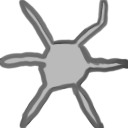
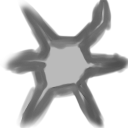
림프절 추가
몹스폰패턴의 고정위치npc임

Changed region(s): [[0.0, 0.0, 1.0, 1.0], [0.6562, 0.5312, 0.6875, 0.5625]]

diff --git a/lymph_node.py b/lymph_node.py
@@ -1,0 +1,231 @@
+import game_framework
+from pico2d import *
+import math
+import random
+
+import game_world
+from bullet import Bullet
+
+# Boy Run Speed
+PIXEL_PER_METER = (10.0 / 0.3)
+RUN_SPEED_KMPH = 20.0 #km.hour
+RUN_SPEED_MPM = (RUN_SPEED_KMPH * 1000.0 / 60.0)
+RUN_SPEED_MPS = (RUN_SPEED_MPM / 60.0)
+RUN_SPEED_PPS = (RUN_SPEED_MPS * PIXEL_PER_METER)
+
+# Boy Action Speed
+# fill expressions correctly
+TIME_PER_ACTION = 0.5
+ACTION_PER_TIME = 1.0 / TIME_PER_ACTION
+FRAMES_PER_ACTION = 8
+
+
+
+# Boy Event
+SLEEP_TIMER = range(1)
+
+key_event_table = {
+
+}
+
+
+# Boy States
+
+class IdleState:
+
+    @staticmethod
+    def enter(enemy, event):
+        pass
+
+    @staticmethod
+    def exit(enemy, event):
+        pass
+
+    @staticmethod
+    def do(enemy):
+        enemy.frame = (enemy.frame + FRAMES_PER_ACTION * ACTION_PER_TIME * game_framework.frame_time) % 8
+        enemy.timer += game_framework.frame_time
+        if enemy.timer > 9.6:
+            enemy.add_event(SLEEP_TIMER)
+
+    @staticmethod
+    def draw(enemy):
+        enemy.image.rotate_draw(enemy.angle, enemy.x, enemy.y, enemy.size, enemy.size)
+
+
+class MoveState:
+
+    @staticmethod
+    def enter(enemy, event):
+        pass
+
+    @staticmethod
+    def exit(enemy, event):
+        pass
+
+    @staticmethod
+    def do(enemy):
+        #if enemy.angle < math.atan2(-game_framework.stack[0].boy.y + enemy.y, -game_framework.stack[0].boy.x + enemy.x) + (90*3.14/180):
+        #    enemy.angle += enemy.spinspeed * game_framework.frame_time
+        #else:
+        #    enemy.angle -= enemy.spinspeed * game_framework.frame_time
+
+        for bullet in game_world.objects[1]:
+            if bullet.name == 1:
+                if math.sqrt((bullet.x - enemy.x)**2 + (bullet.y - enemy.y)**2) < enemy.size*0.5 + 8 and enemy.nucked == False:
+                    game_world.remove_object(bullet)
+                    enemy.nucked = True
+                    enemy.nucktime = 0.5
+                    enemy.hp -= 1
+                    enemy.size -=5
+            if bullet.name == 0:
+                enemy.distance = math.sqrt((bullet.x - enemy.x)**2 + (bullet.y - enemy.y)**2)
+                if enemy.distance < (bullet.size*0.5) + (enemy.size*0.5):
+                    enemy.speed = 0.0
+                    enemy.xspeed = -math.sin(enemy.angle) * enemy.speed * game_framework.frame_time
+                    enemy.yspeed = math.cos(enemy.angle) * enemy.speed * game_framework.frame_time
+                    bullet.x += -math.sin(enemy.angle)
+                    bullet.y += math.cos(enemy.angle)
+                    if bullet.godmod == False and bullet.hp>0:
+                        bullet.hp -= 1
+                        bullet.godmod = True
+                else:
+                    enemy.xspeed = -math.sin(enemy.angle) * enemy.speed * game_framework.frame_time
+                    enemy.yspeed = math.cos(enemy.angle) * enemy.speed * game_framework.frame_time
+
+                if enemy.attackstate:
+                    if enemy.attacktype == 1:
+                        if enemy.cooltime == 0.0:
+                            realbullet = Bullet((enemy.size + 20) * 0.5 * -math.sin(enemy.angle) + enemy.x,
+                                            (enemy.size + 20) * 0.5 * math.cos(enemy.angle) + enemy.y,
+                                            enemy.angle, 200.0)
+                            realbullet.center_object = bullet
+                            game_world.add_object(realbullet, 1)
+                        enemy.cooltime += game_framework.frame_time
+                        if enemy.cooltime >2.0:
+                            enemy.cooltime = 0.0
+
+        if enemy.distance<300.0:
+            enemy.angle = math.atan2(-game_framework.stack[0].boy.y + enemy.y, -game_framework.stack[0].boy.x + enemy.x) + (90*3.14/180)
+            if enemy.attacktype == 0:
+                enemy.speed = 90.0
+            elif enemy.attacktype == 1:
+                enemy.attackstate = True
+        else:
+            enemy.attackstate = False
+            enemy.speed = 50.0
+            enemy.timer -= game_framework.frame_time
+            if enemy.timer < 0:
+                enemy.timer += 1.0
+                enemy.angle = random.random() * 2 * math.pi
+
+        if enemy.attackstate == False:
+            enemy.y += enemy.yspeed
+            enemy.x += enemy.xspeed
+
+        if enemy.nucktime > 0.0:
+            enemy.nucktime -= game_framework.frame_time
+
+        if enemy.nucktime <= 0.0:
+            enemy.nucked = False
+
+
+        enemy.frame = (enemy.frame + FRAMES_PER_ACTION * ACTION_PER_TIME * game_framework.frame_time) % 8
+
+    @staticmethod
+    def draw(enemy):
+        if enemy.nucked:
+            enemy.image.opacify(math.cos(enemy.nucktime*30))
+        else:
+            enemy.image.opacify(1)
+        enemy.image.rotate_draw(enemy.angle,enemy.cx,enemy.cy,enemy.size,enemy.size)
+
+
+class SleepState:
+
+    @staticmethod
+    def enter(enemy, event):
+        enemy.frame = 0
+
+    @staticmethod
+    def exit(enemy, event):
+        pass
+
+    @staticmethod
+    def do(enemy):
+        enemy.frame = (enemy.frame + FRAMES_PER_ACTION * ACTION_PER_TIME * game_framework.frame_time) % 8
+
+    @staticmethod
+    def draw(enemy):
+        enemy.image.rotate_draw(enemy.angle,enemy.x,enemy.y,enemy.size,enemy.size)
+
+
+
+
+
+
+next_state_table = {
+    IdleState: {SLEEP_TIMER: SleepState},
+    MoveState: {},
+    SleepState: {}
+}
+
+class Enemy:
+
+    image = None
+
+    def __init__(self, x = 0, y = 0, spinspeed = 1.0, hp = 10, attacktype = 0):
+        self.x, self.y = x, y
+        if Enemy.image == None:
+            Enemy.image = load_image('resource\img\enemy.png')
+        self.font = load_font('ENCR10B.TTF', 16)
+        self.frame = 0
+        self.event_que = []
+        self.cur_state = MoveState
+        self.cur_state.enter(self, None)
+        self.size = 32
+        self.angle = 0.0
+        self.spinspeed = spinspeed
+        self.speed = 50.0
+        self.hp = hp
+        self.name = 2
+        self.cx = 0.0
+        self.cy = 0.0
+        self.xspeed = 0.0
+        self.yspeed = 0.0
+        self.mp = 100
+        self.distance = 0
+        self.timer = 0.0
+        self.attacktype = attacktype
+        self.attackstate = False
+        self.cooltime = 0.0
+        self.nucktime =0.0
+        self.nucked = False
+
+    def set_center_object(self, boy):
+        self.center_object = boy
+
+    def fire_ball(self):
+        pass
+
+
+    def fire_ghost(self):
+        pass
+
+    def add_event(self, event):
+        self.event_que.insert(0, event)
+
+    def update(self):
+        self.cx, self.cy = self.x - self.center_object.bg.window_left, self.y - self.center_object.bg.window_bottom
+        self.cur_state.do(self)
+        if len(self.event_que) > 0:
+            event = self.event_que.pop()
+            self.cur_state.exit(self, event)
+            self.cur_state = next_state_table[self.cur_state][event]
+            self.cur_state.enter(self, event)
+        if self.hp <= 0:
+            game_world.remove_object(self)
+
+    def draw(self):
+        self.cur_state.draw(self)
+        self.font.draw(self.cx - 60, self.cy + 50, '(hp: %d)' % self.hp, (255, self.hp*50, self.hp*50))

diff --git a/stage0_state.py b/stage0_state.py
@@ -43,6 +43,20 @@ def enter():
     game_world.add_object(wall, 1)
     wall = Wall(1050,360,1450,730)
     game_world.add_object(wall, 1)
+    wall = Wall(1070,0,1720,170)
+    game_world.add_object(wall, 1)
+    wall = Wall(1720,0,2048,1010)
+    game_world.add_object(wall, 1)
+    wall = Wall(1070,1010,2048,1250)
+    game_world.add_object(wall, 1)
+    wall = Wall(700,1250,2048,1410)
+    game_world.add_object(wall, 1)
+    wall = Wall(1200,1410,2048,2048)
+    game_world.add_object(wall, 1)
+    wall = Wall(1050,360,1450,730)
+    game_world.add_object(wall, 1)
+    wall = Wall(0,570,400,1650)
+    game_world.add_object(wall, 1)
 
     background.set_center_object(boy)
     boy.set_background(background)
